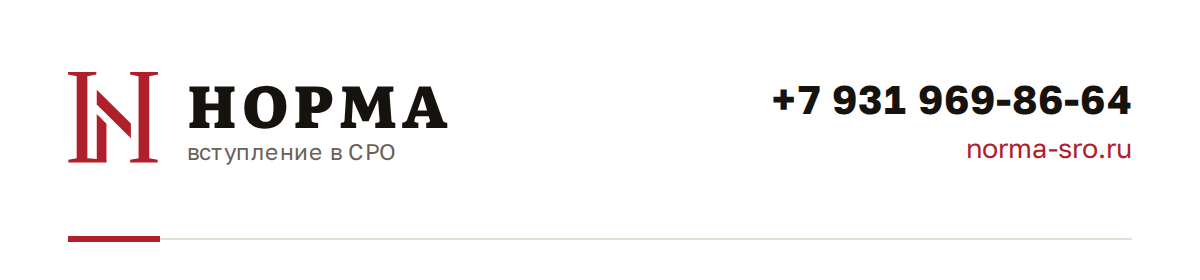
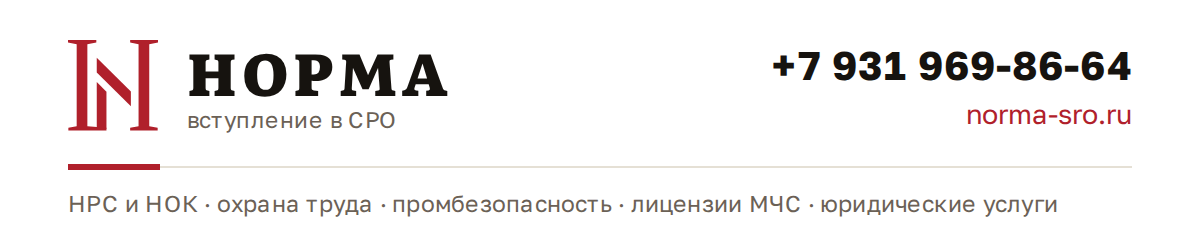
Шапка письма: строка услуг под линейкой, с проверкой на переполнение
Заказчик попросил назвать в шапке, чем он занимается кроме вступления
в СРО. Под линейкой появилась строка: НРС и НОК, охрана труда,
промбезопасность, лицензии МЧС, юридические услуги.

Строка одна и обрезается молча — браузер просто уводит хвост за край,
и «юридические услуги» превратились бы в «юридичес». Поэтому скрипт
меряет настоящие пиксели и падает, если не влезло. Проверка сработала
сразу: первая версия с «лицензии МЧС и Ростехнадзора» была шире поля
на 66 px, и без замера это ушло бы заказчику в таком виде.

У каждого пункта стоит адрес услуги на сайте, и наличие проверяется
по services.ts: уберут услугу со страницы — шапка перестанет собираться,
вместо того чтобы обещать в письмах то, чего сайт уже не делает.
Подписи при этом написаны для письма, а не взяты из конфига дословно:
в меню сайта «Лицензии», а в письме важно назвать то, за чем приходят.

Раскладка шапки переложена с абсолютного позиционирования на поток:
высота теперь получается из содержимого. Прибитые 162 px оставляли
под подписью сорок пикселей пустоты.

Claude-Session: https://claude.ai/code/session_018oEVZMechjsETy2AwcTue8

diff --git a/norma-site/brand/README.md b/norma-site/brand/README.md
@@ -29,13 +29,26 @@
 | `logotip.png` | 552×172 | знак + «НОРМА» + подпись, прозрачный фон |
 | `logotip-belyy.png` | 552×172 | то же для тёмной подложки |
 | `logotip.pdf` | вектор | для типографии: шрифты вшиты, не рассыплется |
-| `avatar.png` | 512×512 | аватар в мессенджерах и соцсетях |
-| `pochta-shapka.png` | 1200×280 | шапка письма (600×140 на экране) |
+| `avatar.png` | 512×512 | аватар в мессенджерах и почте, тёмный |
+| `avatar-svetlyy.png` | 512×512 | он же на бумаге |
+| `pochta-shapka.png` | 1200×244 | шапка письма (600 px по ширине) |
 
 **Руками эти файлы не правьте.** Цвета берутся из `src/styles/global.css`,
 телефон и название — из `src/config/site.ts`, контуры знака — из
 `LogoMark.astro`. Нарисованный однажды и положенный в папку логотип
 разойдётся с сайтом при первой правке телефона или оттенка, и заметить
 это будет некому. Поменяли телефон — прогоните `npm run brand` заново.
+
+**Про аватар.** Знак занимает треть квадрата, а не половину: почти везде,
+куда его ставят, картинку обрезают в круг, и знак во всю ширину теряет
+засечки — а засечки здесь и делают из двух букв монограмму.
+
+**Про строку услуг в шапке письма.** Она одна, в неё помещается пять
+пунктов, и скрипт меряет настоящие пиксели: не влезло — сборка падает,
+а не обрезает хвост молча. У каждого пункта в скрипте стоит адрес услуги
+на сайте, и наличие этой услуги проверяется: уберёте услугу со страницы —
+шапка перестанет собираться, вместо того чтобы обещать в письмах то,
+чего сайт уже не делает. Список нарочно неполный: у лицензий, например,
+кроме МЧС есть Ростехнадзор, Минкультуры и отходы — всё это на сайте.
 
 Файлы этой папки в сборку сайта не попадают: сайт рисует знак сам.
